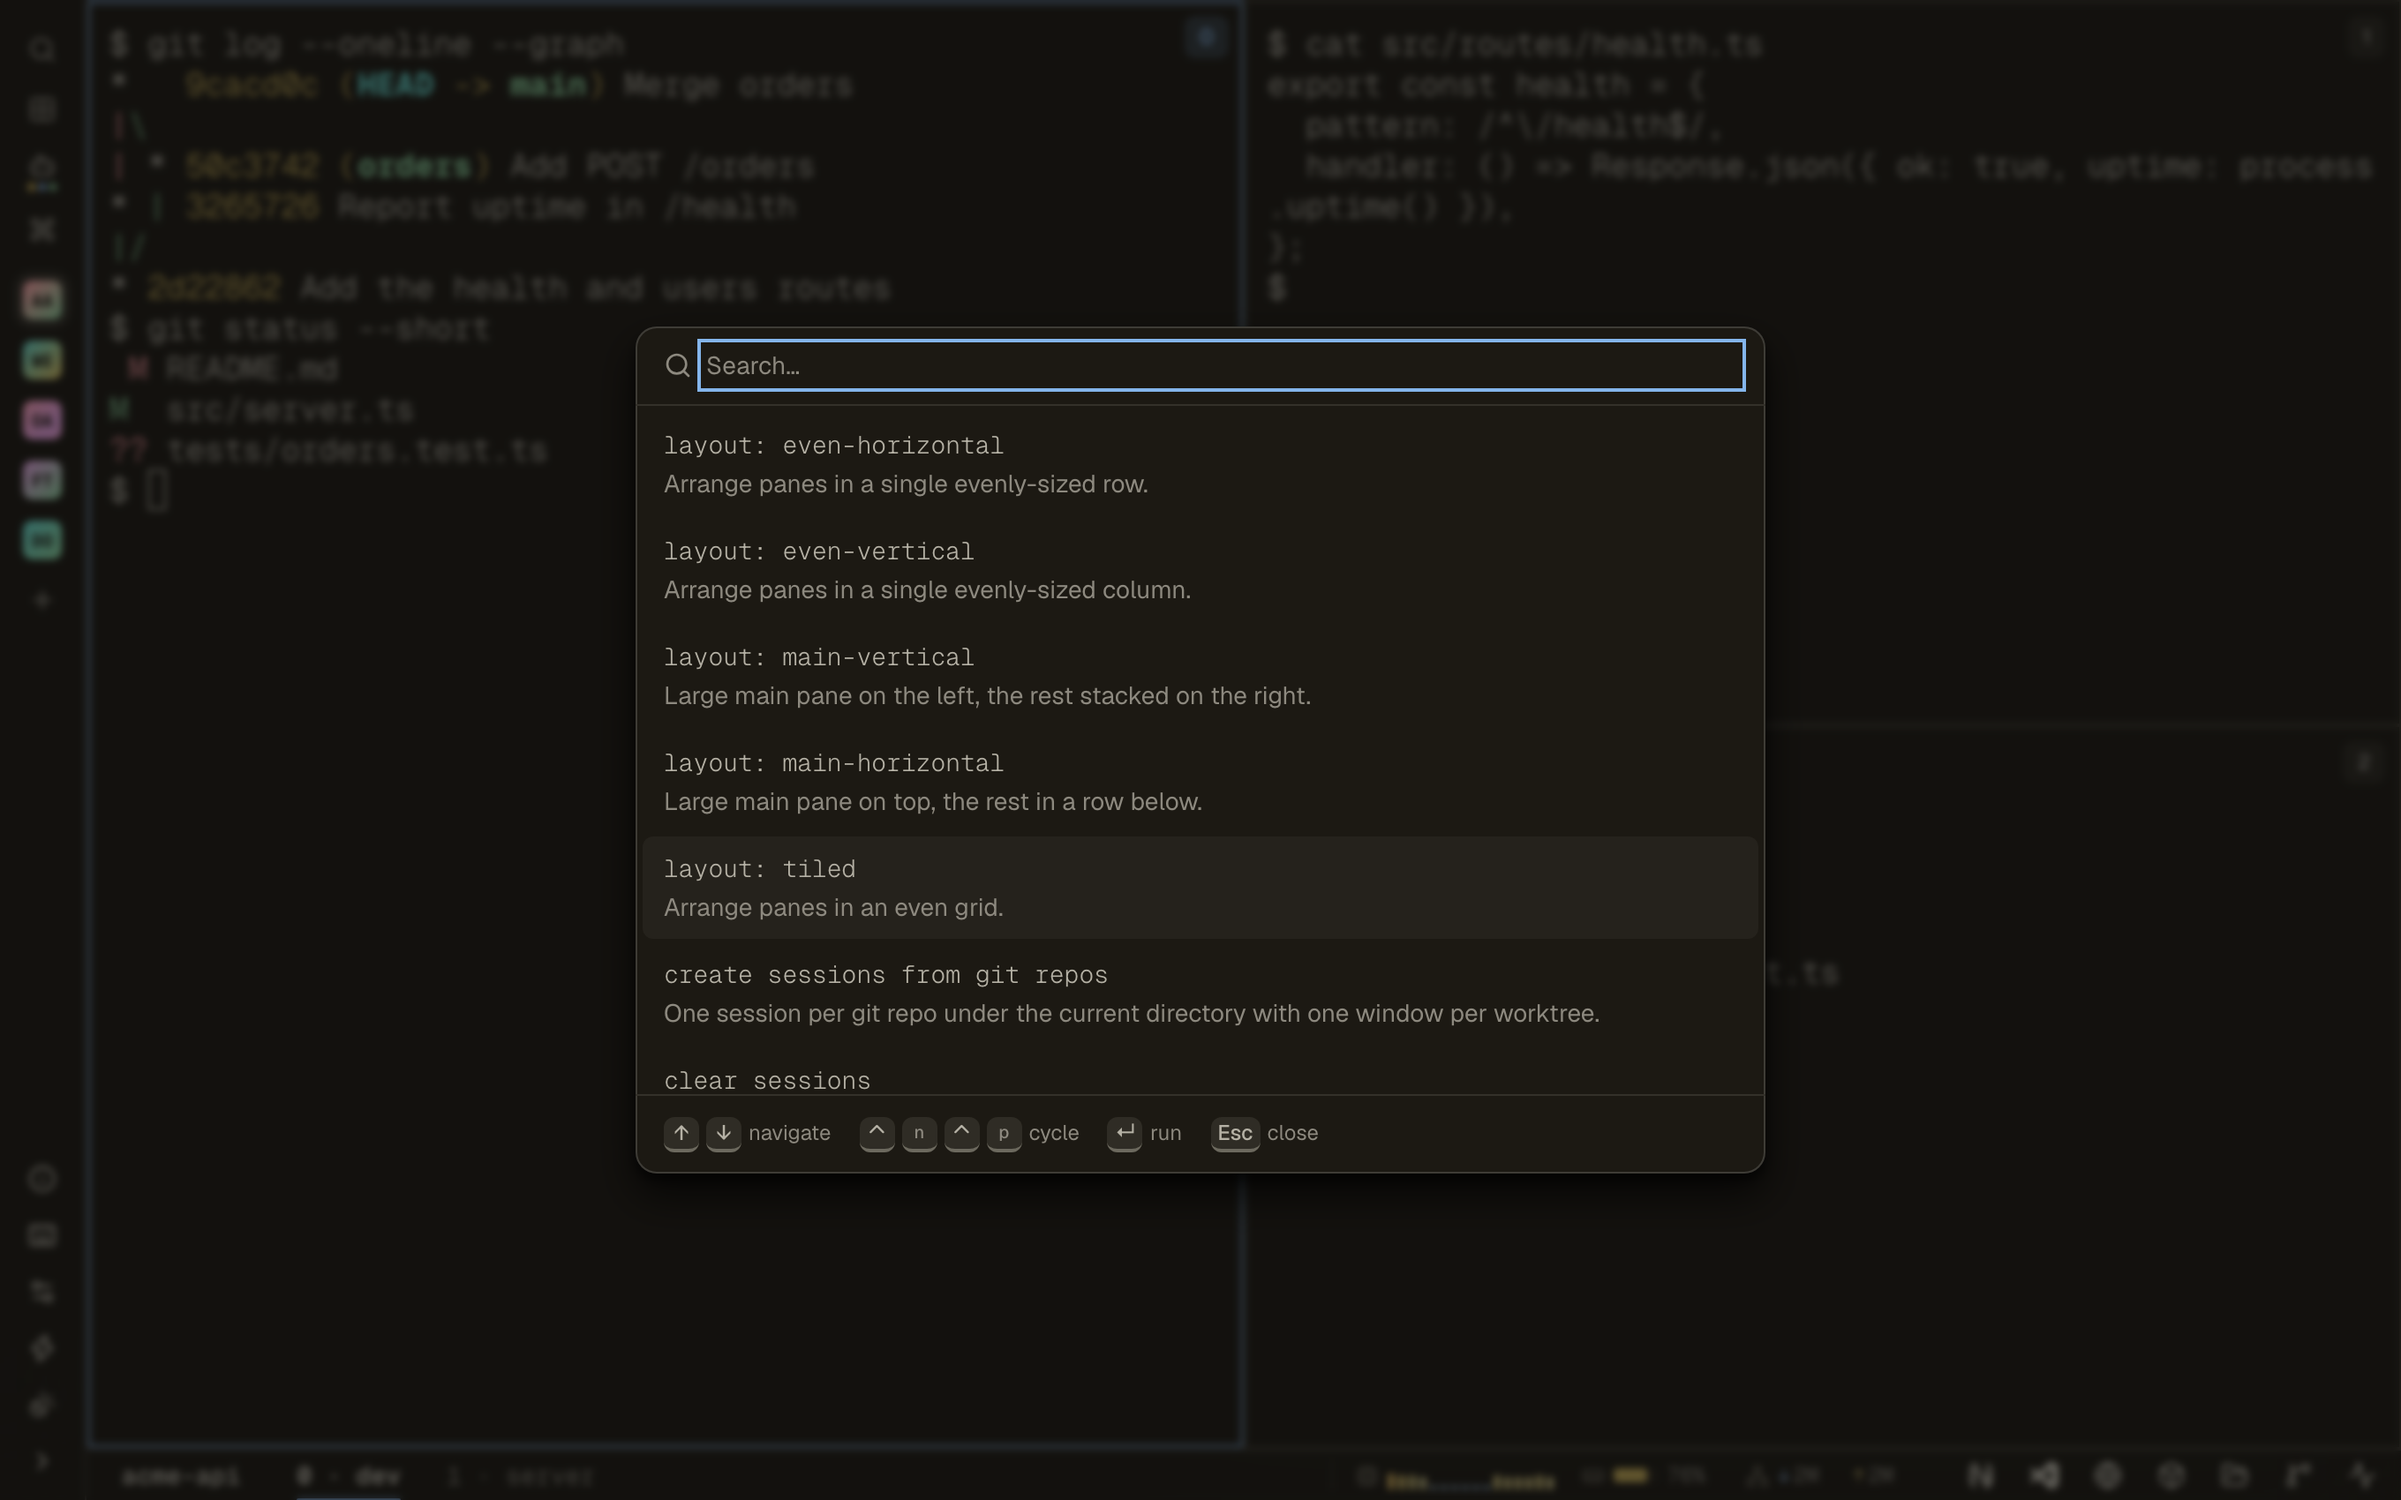
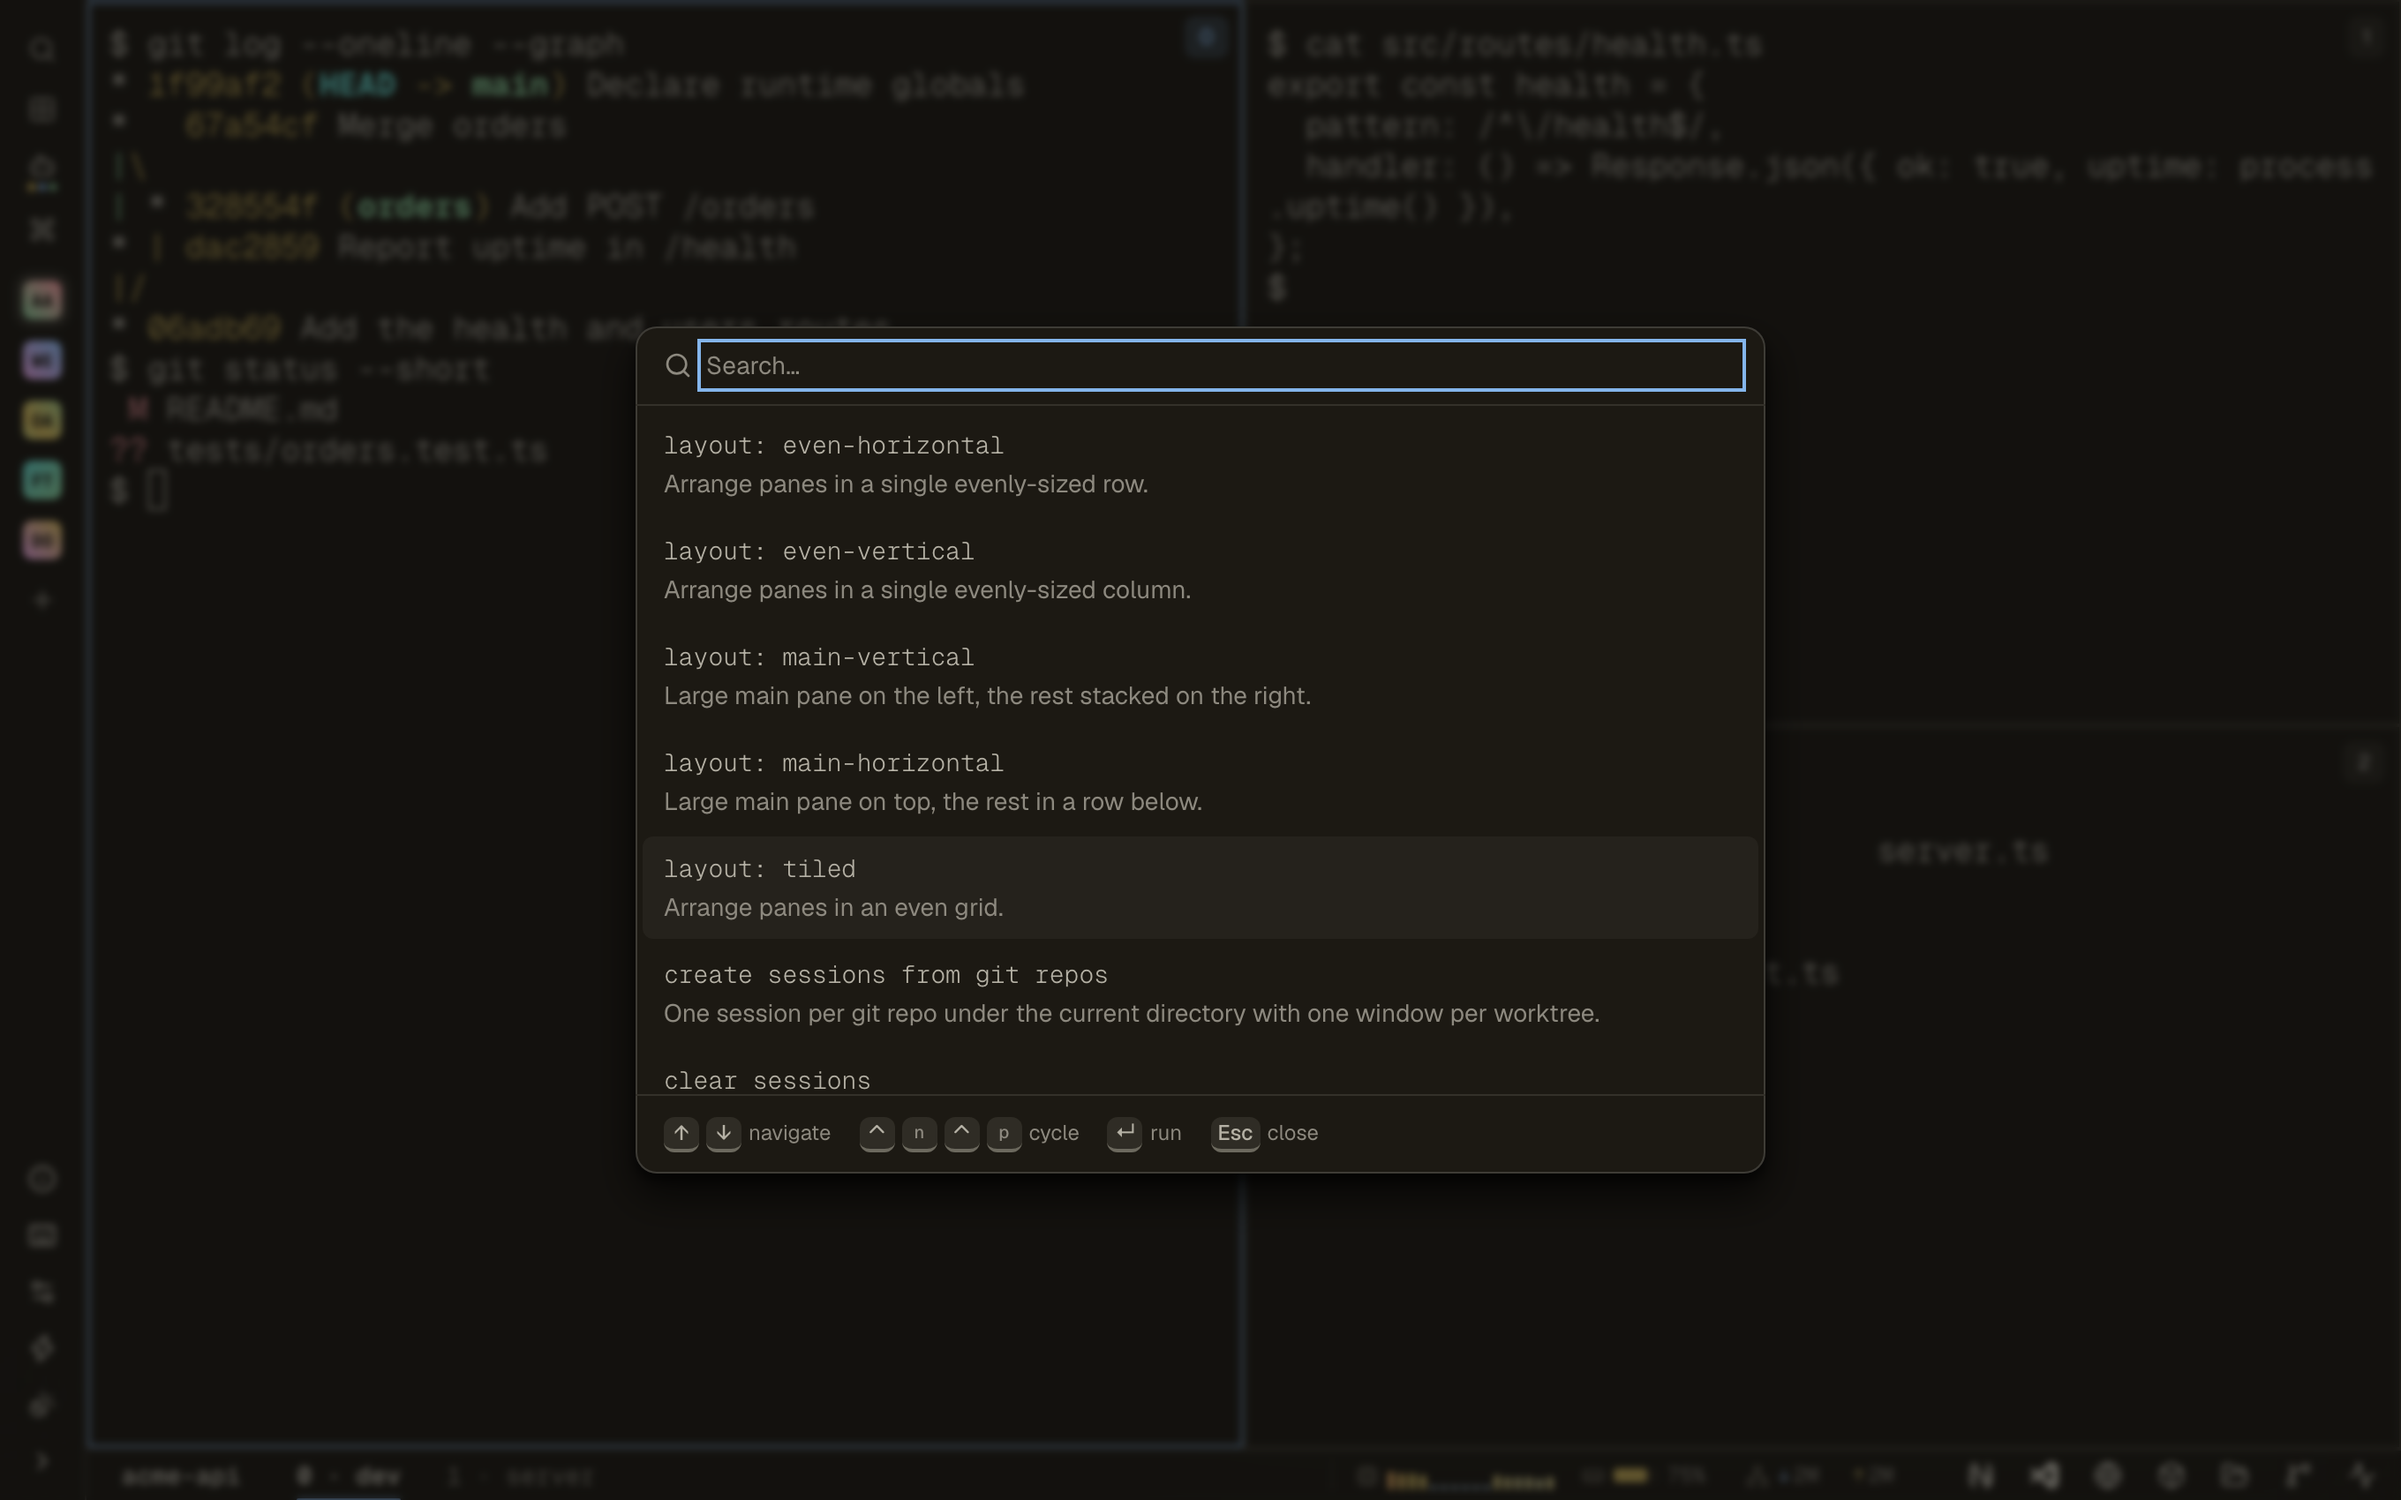
Docs: LSP completion and hover in the Neovim screenshots

diff --git a/frontend/docs-screenshots.ts b/frontend/docs-screenshots.ts
@@ -47,7 +47,7 @@ write(
 write('.gitignore', 'node_modules\n.env\n');
 write(
   'src/server.ts',
-  `import { health } from './routes/health';\nimport { users } from './routes/users';\n\nconst routes = [health, users];\n\nexport function handle(request: Request): Response {\n  const { pathname } = new URL(request.url);\n  for (const route of routes) {\n    const match = route.pattern.exec(pathname);\n    if (match) return route.handler(request, match);\n  }\n  return new Response('Not found', { status: 404 });\n}\n\nBun.serve({ port: 3000, fetch: handle });\n`,
+  `import { health } from './routes/health';\nimport { users } from './routes/users';\n\nconst routes = [health, users];\n\nexport function handle(request: Request): Response | Promise<Response> {\n  const { pathname } = new URL(request.url);\n  for (const route of routes) {\n    const match = route.pattern.exec(pathname);\n    if (match) return route.handler(request, match);\n  }\n  return new Response('Not found', { status: 404 });\n}\n\nBun.serve({ port: 3000, fetch: handle });\n`,
 );
 write(
   'src/routes/health.ts',
@@ -80,7 +80,7 @@ git('merge', '--no-ff', '-m', 'Merge orders', 'orders');
 // Work in progress: one staged, one unstaged, one untracked.
 write(
   'src/server.ts',
-  `import { health } from './routes/health';\nimport { orders } from './routes/orders';\nimport { users } from './routes/users';\n\nconst routes = [health, users, orders];\n\nexport function handle(request: Request): Response {\n  const { pathname } = new URL(request.url);\n  for (const route of routes) {\n    const match = route.pattern.exec(pathname);\n    if (match) return route.handler(request, match);\n  }\n  return Response.json({ error: 'not found' }, { status: 404 });\n}\n\nBun.serve({ port: Number(process.env.PORT ?? 3000), fetch: handle });\n`,
+  `import { health } from './routes/health';\nimport { orders } from './routes/orders';\nimport { users } from './routes/users';\n\nconst routes = [health, users, orders];\n\nexport function handle(request: Request): Response | Promise<Response> {\n  const { pathname } = new URL(request.url);\n  for (const route of routes) {\n    const match = route.pattern.exec(pathname);\n    if (match) return route.handler(request, match);\n  }\n  return Response.json({ error: 'not found' }, { status: 404 });\n}\n\nBun.serve({ port: Number(process.env.PORT ?? 3000), fetch: handle });\n`,
 );
 git('add', 'src/server.ts');
 write(
@@ -88,6 +88,45 @@ write(
   '# acme-api\n\nThe Acme HTTP API.\n\n## Develop\n\n```sh\nbun install\nbun dev\n```\n\nSet `PORT` to listen elsewhere.\n\n## Routes\n\n- `GET /health`\n- `GET /users/:id`\n- `POST /orders`\n',
 );
 write('tests/orders.test.ts', `import { expect, test } from 'bun:test';\n\ntest.todo('creates an order');\n`);
+// Types for the runtime globals, so the language server reports no errors.
+write(
+  'src/globals.d.ts',
+  'declare const Bun: { serve(options: { port: number; fetch: (request: Request) => Response | Promise<Response> }): void };\ndeclare const process: { env: Record<string, string | undefined>; uptime(): number };\n',
+);
+write(
+  'tsconfig.json',
+  '{\n  "compilerOptions": { "target": "esnext", "module": "esnext", "moduleResolution": "bundler" },\n  "include": ["src"]\n}\n',
+);
+git('add', 'src/globals.d.ts', 'tsconfig.json');
+git('commit', '-m', 'Declare runtime globals');
+
+// A language server for the Neovim shots, outside the demo repo, and a Neovim
+// config that uses it with native completion, as the Neovim page suggests.
+const tools = path.join(home, 'tools');
+mkdirSync(tools);
+writeFileSync(path.join(tools, 'package.json'), '{}\n');
+execFileSync('bun', ['add', 'typescript-language-server', 'typescript@5'], { cwd: tools, stdio: 'ignore' });
+mkdirSync(path.join(configHome, 'nvim'), { recursive: true });
+writeFileSync(
+  path.join(configHome, 'nvim', 'init.lua'),
+  `vim.o.number = true
+vim.o.signcolumn = 'no'
+vim.o.autocomplete = true
+vim.o.completeopt = 'menuone,noselect,fuzzy,popup'
+vim.lsp.config('ts', {
+  cmd = { ${JSON.stringify(path.join(tools, 'node_modules', '.bin', 'typescript-language-server'))}, '--stdio' },
+  filetypes = { 'typescript' },
+  root_markers = { 'package.json' },
+})
+vim.lsp.enable('ts')
+vim.api.nvim_create_autocmd('LspAttach', {
+  callback = function(ev)
+    vim.lsp.completion.enable(true, ev.data.client_id, ev.buf, { autotrigger = true })
+  end,
+})
+`,
+);
+
 const site = path.join(home, 'website');
 mkdirSync(site);
 writeFileSync(path.join(site, 'index.html'), '<h1>Acme</h1>\n');
@@ -299,9 +338,9 @@ try {
       await small.close();
     };
 
-    // Neovim over the single pane of the server window, without user config.
+    // Neovim over the single pane of the server window, with the config above.
     btmux('select-window', '-t', 'acme-api:server');
-    await closeUp('acme-api', ['neovim-completion', 'neovim-cmdline'], async (page, save) => {
+    await closeUp('acme-api', ['neovim-completion', 'neovim-hover', 'neovim-cmdline'], async (page, save) => {
       await page.evaluate(async (pane) => {
         const { useStore } = await import('/src/state/store.tsx' as string);
         useStore.getState().setNvimOpen(true, pane);
@@ -314,20 +353,31 @@ try {
         await page.keyboard.press('Enter');
         await page.waitForTimeout(300);
       };
+      // One Escape at a time: a second within 300 ms hides the surface.
+      const escape = async () => {
+        await page.keyboard.press('Escape');
+        await page.waitForTimeout(600);
+      };
       await command('e! src/server.ts');
-      await command('set number completeopt=menuone,noselect,popup');
-      // Keyword completion on a new line inside handle().
-      await page.keyboard.type('9Goro');
+      // The language server starts and loads the project.
+      await page.waitForTimeout(scheme === 'dark' ? 12_000 : 3000);
+      // LSP completion of a route's members, inside the loop of handle().
+      await page.keyboard.type('9Goroute.');
+      await page.waitForTimeout(2500);
       await page.keyboard.press('Control+n');
       await save('neovim-completion');
-      // One Escape: a second within 300 ms hides the surface.
-      await page.keyboard.press('Escape');
-      await page.waitForTimeout(600);
+      await escape();
       await command('e!');
+      // LSP hover on handle.
+      await page.keyboard.type('7G2wK');
+      await page.waitForTimeout(1500);
+      await save('neovim-hover');
+      await page.keyboard.type('j');
+      await page.waitForTimeout(400);
       await page.keyboard.type(':set fold');
       await page.keyboard.press('Tab');
       await save('neovim-cmdline');
-      await page.keyboard.press('Escape');
+      await escape();
       await page.evaluate(async () => {
         const { useStore } = await import('/src/state/store.tsx' as string);
         useStore.getState().setNvimOpen(false);

diff --git a/docs/src/content/docs/features/neovim.md b/docs/src/content/docs/features/neovim.md
@@ -10,8 +10,13 @@ The command line, completion menu, messages, progress, and LSP signature help
 are native UI rather than terminal cells, and floating windows (LSP hover,
 diagnostics, plugin windows) appear as cards.
 
-![Neovim in btmux with its completion menu drawn as a native popup](../../../assets/screenshots/neovim-completion-dark.png)
-![Neovim in btmux with its completion menu drawn as a native popup](../../../assets/screenshots/neovim-completion-light.png)
+![LSP completion in the Neovim GUI: a menu of members with their kinds, and the selected item's type beside it](../../../assets/screenshots/neovim-completion-dark.png)
+![LSP completion in the Neovim GUI: a menu of members with their kinds, and the selected item's type beside it](../../../assets/screenshots/neovim-completion-light.png)
+
+LSP hover, like other floating windows, is a card:
+
+![LSP hover in the Neovim GUI, shown as a card over the code](../../../assets/screenshots/neovim-hover-dark.png)
+![LSP hover in the Neovim GUI, shown as a card over the code](../../../assets/screenshots/neovim-hover-light.png)
 
 The command line and its completions are drawn the same way:
 
